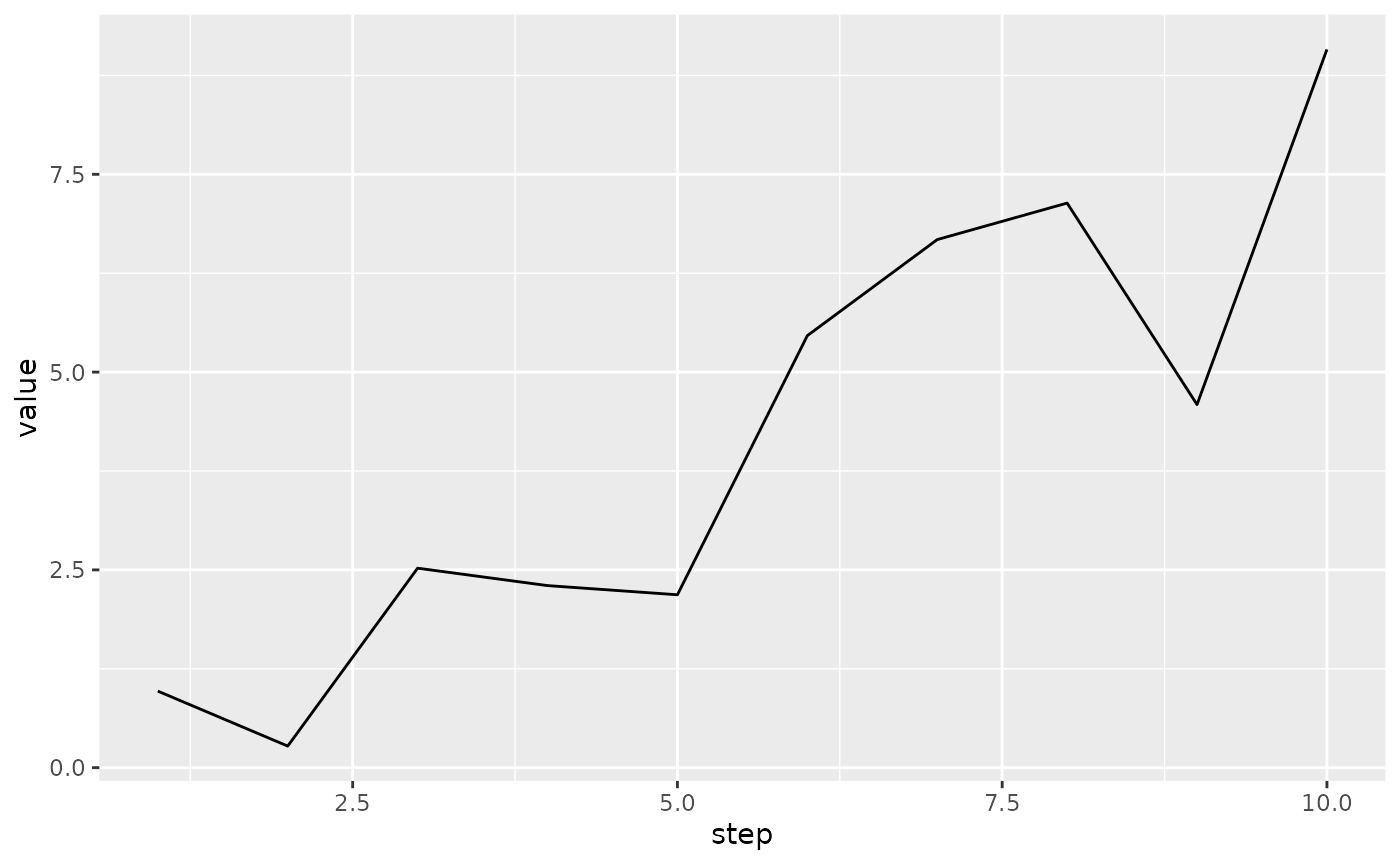
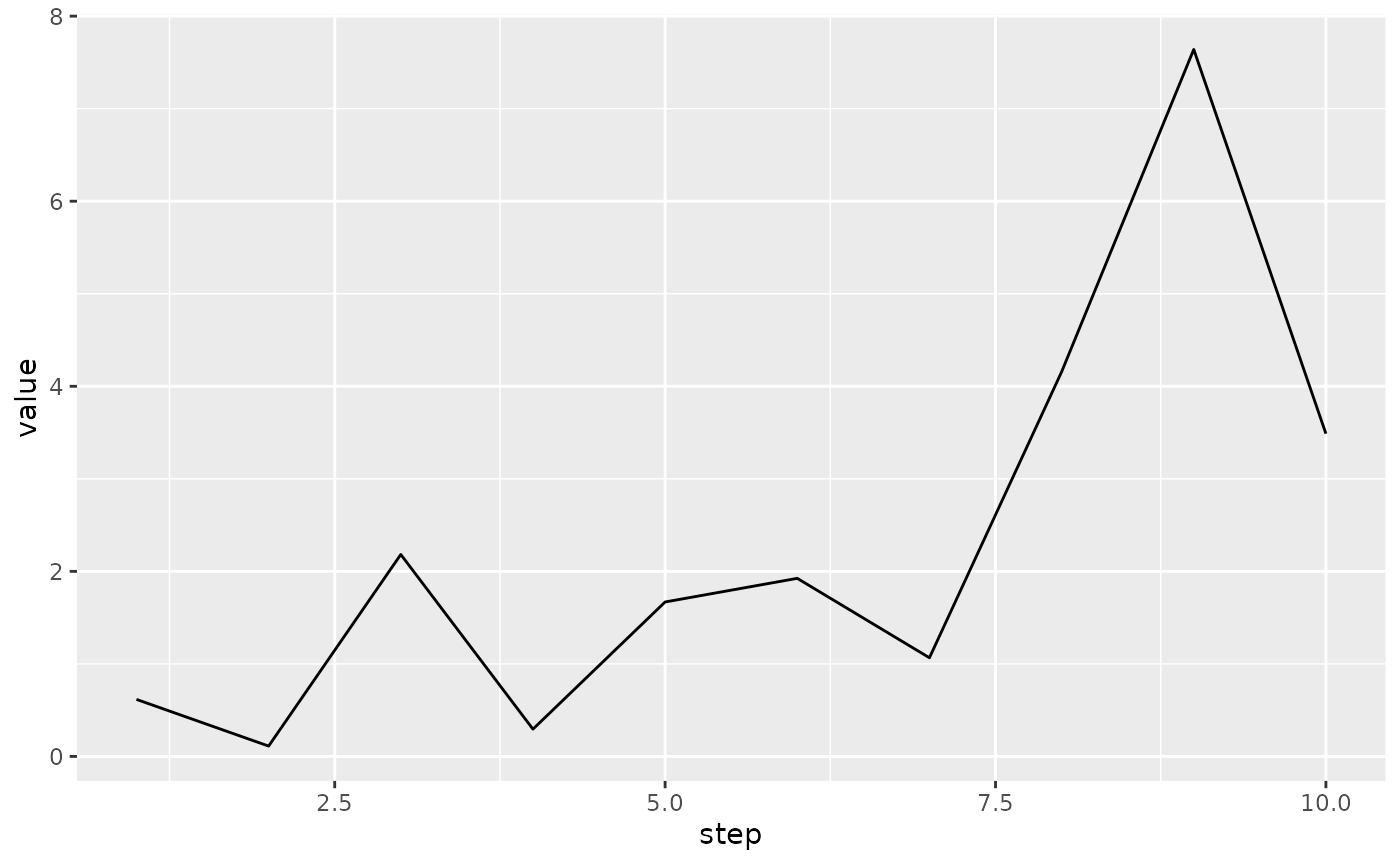
Deploying to gh-pages from @ mlverse/tfevents@e9d2f9bcd6200724fb0143dd8e80393a2a435d81 🚀

diff --git a/articles/hparams.html b/articles/hparams.html
@@ -197,80 +197,80 @@ sets of hyperparameters.</p>
 <code>temp</code> will be filled with event files.</p>
 <div class="sourceCode" id="cb7"><pre class="downlit sourceCode r">
 <code class="sourceCode R"><span><span class="fu">fs</span><span class="fu">::</span><span class="fu"><a href="https://fs.r-lib.org/reference/dir_tree.html" class="external-link">dir_tree</a></span><span class="op">(</span><span class="va">temp</span><span class="op">)</span></span>
-<span><span class="co">#&gt; <span style="color: #0000BB; font-weight: bold;">/tmp/RtmpryvFVM/logdir1acf1a7bd8a5</span></span></span>
-<span><span class="co">#&gt; ├── <span style="color: #0000BB; font-weight: bold;">bcvrdgjgfkvuuon</span></span></span>
-<span><span class="co">#&gt; │   ├── events.out.tfevents.1677662836.v2</span></span>
+<span><span class="co">#&gt; <span style="color: #0000BB; font-weight: bold;">/tmp/Rtmpn442bn/logdir1af85866de11</span></span></span>
+<span><span class="co">#&gt; ├── events.out.tfevents.1677663946.v2</span></span>
+<span><span class="co">#&gt; ├── <span style="color: #0000BB; font-weight: bold;">fcepebyhnlqvoty</span></span></span>
+<span><span class="co">#&gt; │   ├── events.out.tfevents.1677663946.v2</span></span>
 <span><span class="co">#&gt; │   ├── <span style="color: #0000BB; font-weight: bold;">train</span></span></span>
-<span><span class="co">#&gt; │   │   └── events.out.tfevents.1677662836.v2</span></span>
+<span><span class="co">#&gt; │   │   └── events.out.tfevents.1677663946.v2</span></span>
 <span><span class="co">#&gt; │   └── <span style="color: #0000BB; font-weight: bold;">valid</span></span></span>
-<span><span class="co">#&gt; │       └── events.out.tfevents.1677662836.v2</span></span>
-<span><span class="co">#&gt; ├── events.out.tfevents.1677662834.v2</span></span>
-<span><span class="co">#&gt; ├── <span style="color: #0000BB; font-weight: bold;">fkpmcwaolztxnxc</span></span></span>
-<span><span class="co">#&gt; │   ├── events.out.tfevents.1677662836.v2</span></span>
+<span><span class="co">#&gt; │       └── events.out.tfevents.1677663946.v2</span></span>
+<span><span class="co">#&gt; ├── <span style="color: #0000BB; font-weight: bold;">idkndnxreahjifk</span></span></span>
+<span><span class="co">#&gt; │   ├── events.out.tfevents.1677663948.v2</span></span>
 <span><span class="co">#&gt; │   ├── <span style="color: #0000BB; font-weight: bold;">train</span></span></span>
-<span><span class="co">#&gt; │   │   └── events.out.tfevents.1677662836.v2</span></span>
+<span><span class="co">#&gt; │   │   └── events.out.tfevents.1677663948.v2</span></span>
 <span><span class="co">#&gt; │   └── <span style="color: #0000BB; font-weight: bold;">valid</span></span></span>
-<span><span class="co">#&gt; │       └── events.out.tfevents.1677662836.v2</span></span>
-<span><span class="co">#&gt; ├── <span style="color: #0000BB; font-weight: bold;">flqepnxhpryyqsl</span></span></span>
-<span><span class="co">#&gt; │   ├── events.out.tfevents.1677662834.v2</span></span>
+<span><span class="co">#&gt; │       └── events.out.tfevents.1677663948.v2</span></span>
+<span><span class="co">#&gt; ├── <span style="color: #0000BB; font-weight: bold;">kbhxfctzqhmdhev</span></span></span>
+<span><span class="co">#&gt; │   ├── events.out.tfevents.1677663947.v2</span></span>
 <span><span class="co">#&gt; │   ├── <span style="color: #0000BB; font-weight: bold;">train</span></span></span>
-<span><span class="co">#&gt; │   │   └── events.out.tfevents.1677662834.v2</span></span>
+<span><span class="co">#&gt; │   │   └── events.out.tfevents.1677663947.v2</span></span>
 <span><span class="co">#&gt; │   └── <span style="color: #0000BB; font-weight: bold;">valid</span></span></span>
-<span><span class="co">#&gt; │       └── events.out.tfevents.1677662834.v2</span></span>
-<span><span class="co">#&gt; ├── <span style="color: #0000BB; font-weight: bold;">nkclfidgjoerwqi</span></span></span>
-<span><span class="co">#&gt; │   ├── events.out.tfevents.1677662834.v2</span></span>
+<span><span class="co">#&gt; │       └── events.out.tfevents.1677663947.v2</span></span>
+<span><span class="co">#&gt; ├── <span style="color: #0000BB; font-weight: bold;">lsxbbtusrtdlmps</span></span></span>
+<span><span class="co">#&gt; │   ├── events.out.tfevents.1677663947.v2</span></span>
 <span><span class="co">#&gt; │   ├── <span style="color: #0000BB; font-weight: bold;">train</span></span></span>
-<span><span class="co">#&gt; │   │   └── events.out.tfevents.1677662834.v2</span></span>
+<span><span class="co">#&gt; │   │   └── events.out.tfevents.1677663947.v2</span></span>
 <span><span class="co">#&gt; │   └── <span style="color: #0000BB; font-weight: bold;">valid</span></span></span>
-<span><span class="co">#&gt; │       └── events.out.tfevents.1677662834.v2</span></span>
-<span><span class="co">#&gt; ├── <span style="color: #0000BB; font-weight: bold;">peoffgaheupxywl</span></span></span>
-<span><span class="co">#&gt; │   ├── events.out.tfevents.1677662835.v2</span></span>
+<span><span class="co">#&gt; │       └── events.out.tfevents.1677663947.v2</span></span>
+<span><span class="co">#&gt; ├── <span style="color: #0000BB; font-weight: bold;">mgilfmcrhqbultn</span></span></span>
+<span><span class="co">#&gt; │   ├── events.out.tfevents.1677663946.v2</span></span>
 <span><span class="co">#&gt; │   ├── <span style="color: #0000BB; font-weight: bold;">train</span></span></span>
-<span><span class="co">#&gt; │   │   └── events.out.tfevents.1677662835.v2</span></span>
+<span><span class="co">#&gt; │   │   └── events.out.tfevents.1677663946.v2</span></span>
 <span><span class="co">#&gt; │   └── <span style="color: #0000BB; font-weight: bold;">valid</span></span></span>
-<span><span class="co">#&gt; │       └── events.out.tfevents.1677662835.v2</span></span>
-<span><span class="co">#&gt; ├── <span style="color: #0000BB; font-weight: bold;">ramygmfuwfsfcmo</span></span></span>
-<span><span class="co">#&gt; │   ├── events.out.tfevents.1677662836.v2</span></span>
+<span><span class="co">#&gt; │       └── events.out.tfevents.1677663946.v2</span></span>
+<span><span class="co">#&gt; ├── <span style="color: #0000BB; font-weight: bold;">njjpzdqgkchdzmc</span></span></span>
+<span><span class="co">#&gt; │   ├── events.out.tfevents.1677663946.v2</span></span>
 <span><span class="co">#&gt; │   ├── <span style="color: #0000BB; font-weight: bold;">train</span></span></span>
-<span><span class="co">#&gt; │   │   └── events.out.tfevents.1677662836.v2</span></span>
+<span><span class="co">#&gt; │   │   └── events.out.tfevents.1677663946.v2</span></span>
 <span><span class="co">#&gt; │   └── <span style="color: #0000BB; font-weight: bold;">valid</span></span></span>
-<span><span class="co">#&gt; │       └── events.out.tfevents.1677662836.v2</span></span>
-<span><span class="co">#&gt; ├── <span style="color: #0000BB; font-weight: bold;">slagsviifsidngz</span></span></span>
-<span><span class="co">#&gt; │   ├── events.out.tfevents.1677662834.v2</span></span>
+<span><span class="co">#&gt; │       └── events.out.tfevents.1677663946.v2</span></span>
+<span><span class="co">#&gt; ├── <span style="color: #0000BB; font-weight: bold;">ofosgkxxhvklihu</span></span></span>
+<span><span class="co">#&gt; │   ├── events.out.tfevents.1677663947.v2</span></span>
 <span><span class="co">#&gt; │   ├── <span style="color: #0000BB; font-weight: bold;">train</span></span></span>
-<span><span class="co">#&gt; │   │   └── events.out.tfevents.1677662834.v2</span></span>
+<span><span class="co">#&gt; │   │   └── events.out.tfevents.1677663947.v2</span></span>
 <span><span class="co">#&gt; │   └── <span style="color: #0000BB; font-weight: bold;">valid</span></span></span>
-<span><span class="co">#&gt; │       └── events.out.tfevents.1677662834.v2</span></span>
-<span><span class="co">#&gt; ├── <span style="color: #0000BB; font-weight: bold;">sugjggbqpstdckq</span></span></span>
-<span><span class="co">#&gt; │   ├── events.out.tfevents.1677662835.v2</span></span>
+<span><span class="co">#&gt; │       └── events.out.tfevents.1677663947.v2</span></span>
+<span><span class="co">#&gt; ├── <span style="color: #0000BB; font-weight: bold;">oxrftuzxlnfefnk</span></span></span>
+<span><span class="co">#&gt; │   ├── events.out.tfevents.1677663948.v2</span></span>
 <span><span class="co">#&gt; │   ├── <span style="color: #0000BB; font-weight: bold;">train</span></span></span>
-<span><span class="co">#&gt; │   │   └── events.out.tfevents.1677662835.v2</span></span>
+<span><span class="co">#&gt; │   │   └── events.out.tfevents.1677663948.v2</span></span>
 <span><span class="co">#&gt; │   └── <span style="color: #0000BB; font-weight: bold;">valid</span></span></span>
-<span><span class="co">#&gt; │       └── events.out.tfevents.1677662835.v2</span></span>
-<span><span class="co">#&gt; ├── <span style="color: #0000BB; font-weight: bold;">syrmvfxplbhleqg</span></span></span>
-<span><span class="co">#&gt; │   ├── events.out.tfevents.1677662834.v2</span></span>
+<span><span class="co">#&gt; │       └── events.out.tfevents.1677663948.v2</span></span>
+<span><span class="co">#&gt; ├── <span style="color: #0000BB; font-weight: bold;">psizzxzavmtonun</span></span></span>
+<span><span class="co">#&gt; │   ├── events.out.tfevents.1677663947.v2</span></span>
 <span><span class="co">#&gt; │   ├── <span style="color: #0000BB; font-weight: bold;">train</span></span></span>
-<span><span class="co">#&gt; │   │   └── events.out.tfevents.1677662834.v2</span></span>
+<span><span class="co">#&gt; │   │   └── events.out.tfevents.1677663947.v2</span></span>
 <span><span class="co">#&gt; │   └── <span style="color: #0000BB; font-weight: bold;">valid</span></span></span>
-<span><span class="co">#&gt; │       └── events.out.tfevents.1677662834.v2</span></span>
-<span><span class="co">#&gt; ├── <span style="color: #0000BB; font-weight: bold;">tbsybarmczyjzla</span></span></span>
-<span><span class="co">#&gt; │   ├── events.out.tfevents.1677662835.v2</span></span>
+<span><span class="co">#&gt; │       └── events.out.tfevents.1677663947.v2</span></span>
+<span><span class="co">#&gt; ├── <span style="color: #0000BB; font-weight: bold;">vhmooquhebehdxr</span></span></span>
+<span><span class="co">#&gt; │   ├── events.out.tfevents.1677663947.v2</span></span>
 <span><span class="co">#&gt; │   ├── <span style="color: #0000BB; font-weight: bold;">train</span></span></span>
-<span><span class="co">#&gt; │   │   └── events.out.tfevents.1677662835.v2</span></span>
+<span><span class="co">#&gt; │   │   └── events.out.tfevents.1677663947.v2</span></span>
 <span><span class="co">#&gt; │   └── <span style="color: #0000BB; font-weight: bold;">valid</span></span></span>
-<span><span class="co">#&gt; │       └── events.out.tfevents.1677662835.v2</span></span>
-<span><span class="co">#&gt; ├── <span style="color: #0000BB; font-weight: bold;">wexjnnljyagyliv</span></span></span>
-<span><span class="co">#&gt; │   ├── events.out.tfevents.1677662835.v2</span></span>
+<span><span class="co">#&gt; │       └── events.out.tfevents.1677663947.v2</span></span>
+<span><span class="co">#&gt; ├── <span style="color: #0000BB; font-weight: bold;">ypbreeupvpknzqz</span></span></span>
+<span><span class="co">#&gt; │   ├── events.out.tfevents.1677663947.v2</span></span>
 <span><span class="co">#&gt; │   ├── <span style="color: #0000BB; font-weight: bold;">train</span></span></span>
-<span><span class="co">#&gt; │   │   └── events.out.tfevents.1677662835.v2</span></span>
+<span><span class="co">#&gt; │   │   └── events.out.tfevents.1677663947.v2</span></span>
 <span><span class="co">#&gt; │   └── <span style="color: #0000BB; font-weight: bold;">valid</span></span></span>
-<span><span class="co">#&gt; │       └── events.out.tfevents.1677662835.v2</span></span>
-<span><span class="co">#&gt; └── <span style="color: #0000BB; font-weight: bold;">xfafuhvnrrsdxtx</span></span></span>
-<span><span class="co">#&gt;     ├── events.out.tfevents.1677662835.v2</span></span>
+<span><span class="co">#&gt; │       └── events.out.tfevents.1677663947.v2</span></span>
+<span><span class="co">#&gt; └── <span style="color: #0000BB; font-weight: bold;">zntnoxyzogvwkau</span></span></span>
+<span><span class="co">#&gt;     ├── events.out.tfevents.1677663946.v2</span></span>
 <span><span class="co">#&gt;     ├── <span style="color: #0000BB; font-weight: bold;">train</span></span></span>
-<span><span class="co">#&gt;     │   └── events.out.tfevents.1677662835.v2</span></span>
+<span><span class="co">#&gt;     │   └── events.out.tfevents.1677663946.v2</span></span>
 <span><span class="co">#&gt;     └── <span style="color: #0000BB; font-weight: bold;">valid</span></span></span>
-<span><span class="co">#&gt;         └── events.out.tfevents.1677662835.v2</span></span></code></pre></div>
+<span><span class="co">#&gt;         └── events.out.tfevents.1677663946.v2</span></span></code></pre></div>
 <p>Finally, we can visualize the experiment results in TensorBoard:</p>
 <div class="sourceCode" id="cb8"><pre class="downlit sourceCode r">
 <code class="sourceCode R"><span><span class="fu">tensorflow</span><span class="fu">::</span><span class="fu"><a href="https://rdrr.io/pkg/tensorflow/man/tensorboard.html" class="external-link">tensorboard</a></span><span class="op">(</span><span class="va">temp</span>, port <span class="op">=</span> <span class="fl">6060</span><span class="op">)</span></span>

diff --git a/articles/read.html b/articles/read.html
@@ -178,34 +178,34 @@ matter the size of the summary_values vector that you pass.</p>
 <code class="sourceCode R"><span><span class="co"># we remove the first summary, as it's a text summary</span></span>
 <span><span class="fu"><a href="../reference/value.html">value</a></span><span class="op">(</span><span class="va">summaries</span><span class="op">$</span><span class="va">summary</span><span class="op">[</span><span class="op">-</span><span class="fl">1</span><span class="op">]</span>, as_list <span class="op">=</span> <span class="cn">TRUE</span><span class="op">)</span></span>
 <span><span class="co">#&gt; [[1]]</span></span>
-<span><span class="co">#&gt; [1] 0.9677632</span></span>
+<span><span class="co">#&gt; [1] 0.6161485</span></span>
 <span><span class="co">#&gt; </span></span>
 <span><span class="co">#&gt; [[2]]</span></span>
-<span><span class="co">#&gt; [1] 0.272881</span></span>
+<span><span class="co">#&gt; [1] 0.111779</span></span>
 <span><span class="co">#&gt; </span></span>
 <span><span class="co">#&gt; [[3]]</span></span>
-<span><span class="co">#&gt; [1] 2.521486</span></span>
+<span><span class="co">#&gt; [1] 2.182474</span></span>
 <span><span class="co">#&gt; </span></span>
 <span><span class="co">#&gt; [[4]]</span></span>
-<span><span class="co">#&gt; [1] 2.301351</span></span>
+<span><span class="co">#&gt; [1] 0.2947489</span></span>
 <span><span class="co">#&gt; </span></span>
 <span><span class="co">#&gt; [[5]]</span></span>
-<span><span class="co">#&gt; [1] 2.185386</span></span>
+<span><span class="co">#&gt; [1] 1.669016</span></span>
 <span><span class="co">#&gt; </span></span>
 <span><span class="co">#&gt; [[6]]</span></span>
-<span><span class="co">#&gt; [1] 5.460463</span></span>
+<span><span class="co">#&gt; [1] 1.924397</span></span>
 <span><span class="co">#&gt; </span></span>
 <span><span class="co">#&gt; [[7]]</span></span>
-<span><span class="co">#&gt; [1] 6.674839</span></span>
+<span><span class="co">#&gt; [1] 1.066157</span></span>
 <span><span class="co">#&gt; </span></span>
 <span><span class="co">#&gt; [[8]]</span></span>
-<span><span class="co">#&gt; [1] 7.136285</span></span>
+<span><span class="co">#&gt; [1] 4.155633</span></span>
 <span><span class="co">#&gt; </span></span>
 <span><span class="co">#&gt; [[9]]</span></span>
-<span><span class="co">#&gt; [1] 4.589428</span></span>
+<span><span class="co">#&gt; [1] 7.640159</span></span>
 <span><span class="co">#&gt; </span></span>
 <span><span class="co">#&gt; [[10]]</span></span>
-<span><span class="co">#&gt; [1] 9.078273</span></span></code></pre></div>
+<span><span class="co">#&gt; [1] 3.48781</span></span></code></pre></div>
 <p>If you are only interested in scalar summaries, you can use
 <code>type="scalar"</code> in <code>collect_events</code>:</p>
 <div class="sourceCode" id="cb8"><pre class="downlit sourceCode r">
@@ -214,16 +214,16 @@ matter the size of the summary_values vector that you pass.</p>
 <span><span class="co">#&gt; <span style="color: #949494;"># A tibble: 10 × 7</span></span></span>
 <span><span class="co">#&gt;         event run    step    summary tag   plugin  value</span></span>
 <span><span class="co">#&gt;    <span style="color: #949494; font-style: italic;">&lt;tfvnts_v&gt;</span> <span style="color: #949494; font-style: italic;">&lt;chr&gt;</span> <span style="color: #949494; font-style: italic;">&lt;int&gt;</span> <span style="color: #949494; font-style: italic;">&lt;tfvnts__&gt;</span> <span style="color: #949494; font-style: italic;">&lt;chr&gt;</span> <span style="color: #949494; font-style: italic;">&lt;chr&gt;</span>   <span style="color: #949494; font-style: italic;">&lt;dbl&gt;</span></span></span>
-<span><span class="co">#&gt; <span style="color: #BCBCBC;"> 1</span>     &lt;./ 1&gt; .         1    &lt;hello&gt; hello scalars 0.968</span></span>
-<span><span class="co">#&gt; <span style="color: #BCBCBC;"> 2</span>     &lt;./ 2&gt; .         2    &lt;hello&gt; hello scalars 0.273</span></span>
-<span><span class="co">#&gt; <span style="color: #BCBCBC;"> 3</span>     &lt;./ 3&gt; .         3    &lt;hello&gt; hello scalars 2.52 </span></span>
-<span><span class="co">#&gt; <span style="color: #BCBCBC;"> 4</span>     &lt;./ 4&gt; .         4    &lt;hello&gt; hello scalars 2.30 </span></span>
-<span><span class="co">#&gt; <span style="color: #BCBCBC;"> 5</span>     &lt;./ 5&gt; .         5    &lt;hello&gt; hello scalars 2.19 </span></span>
-<span><span class="co">#&gt; <span style="color: #BCBCBC;"> 6</span>     &lt;./ 6&gt; .         6    &lt;hello&gt; hello scalars 5.46 </span></span>
-<span><span class="co">#&gt; <span style="color: #BCBCBC;"> 7</span>     &lt;./ 7&gt; .         7    &lt;hello&gt; hello scalars 6.67 </span></span>
-<span><span class="co">#&gt; <span style="color: #BCBCBC;"> 8</span>     &lt;./ 8&gt; .         8    &lt;hello&gt; hello scalars 7.14 </span></span>
-<span><span class="co">#&gt; <span style="color: #BCBCBC;"> 9</span>     &lt;./ 9&gt; .         9    &lt;hello&gt; hello scalars 4.59 </span></span>
-<span><span class="co">#&gt; <span style="color: #BCBCBC;">10</span>     &lt;./10&gt; .        10    &lt;hello&gt; hello scalars 9.08</span></span></code></pre></div>
+<span><span class="co">#&gt; <span style="color: #BCBCBC;"> 1</span>     &lt;./ 1&gt; .         1    &lt;hello&gt; hello scalars 0.616</span></span>
+<span><span class="co">#&gt; <span style="color: #BCBCBC;"> 2</span>     &lt;./ 2&gt; .         2    &lt;hello&gt; hello scalars 0.112</span></span>
+<span><span class="co">#&gt; <span style="color: #BCBCBC;"> 3</span>     &lt;./ 3&gt; .         3    &lt;hello&gt; hello scalars 2.18 </span></span>
+<span><span class="co">#&gt; <span style="color: #BCBCBC;"> 4</span>     &lt;./ 4&gt; .         4    &lt;hello&gt; hello scalars 0.295</span></span>
+<span><span class="co">#&gt; <span style="color: #BCBCBC;"> 5</span>     &lt;./ 5&gt; .         5    &lt;hello&gt; hello scalars 1.67 </span></span>
+<span><span class="co">#&gt; <span style="color: #BCBCBC;"> 6</span>     &lt;./ 6&gt; .         6    &lt;hello&gt; hello scalars 1.92 </span></span>
+<span><span class="co">#&gt; <span style="color: #BCBCBC;"> 7</span>     &lt;./ 7&gt; .         7    &lt;hello&gt; hello scalars 1.07 </span></span>
+<span><span class="co">#&gt; <span style="color: #BCBCBC;"> 8</span>     &lt;./ 8&gt; .         8    &lt;hello&gt; hello scalars 4.16 </span></span>
+<span><span class="co">#&gt; <span style="color: #BCBCBC;"> 9</span>     &lt;./ 9&gt; .         9    &lt;hello&gt; hello scalars 7.64 </span></span>
+<span><span class="co">#&gt; <span style="color: #BCBCBC;">10</span>     &lt;./10&gt; .        10    &lt;hello&gt; hello scalars 3.49</span></span></code></pre></div>
 <p>Now, values can be expanded in the data frame and you get a ready to
 use data frame, for example:</p>
 <div class="sourceCode" id="cb9"><pre class="downlit sourceCode r">
@@ -246,7 +246,7 @@ load events in smaller batches.</p>
 <span><span class="co">#&gt; <span style="color: #949494;"># A tibble: 1 × 7</span></span></span>
 <span><span class="co">#&gt;        event run    step    summary tag   plugin  value</span></span>
 <span><span class="co">#&gt;   <span style="color: #949494; font-style: italic;">&lt;tfvnts_v&gt;</span> <span style="color: #949494; font-style: italic;">&lt;chr&gt;</span> <span style="color: #949494; font-style: italic;">&lt;int&gt;</span> <span style="color: #949494; font-style: italic;">&lt;tfvnts__&gt;</span> <span style="color: #949494; font-style: italic;">&lt;chr&gt;</span> <span style="color: #949494; font-style: italic;">&lt;chr&gt;</span>   <span style="color: #949494; font-style: italic;">&lt;dbl&gt;</span></span></span>
-<span><span class="co">#&gt; <span style="color: #BCBCBC;">1</span>      &lt;./1&gt; .         1    &lt;hello&gt; hello scalars 0.968</span></span></code></pre></div>
+<span><span class="co">#&gt; <span style="color: #BCBCBC;">1</span>      &lt;./1&gt; .         1    &lt;hello&gt; hello scalars 0.616</span></span></code></pre></div>
 <p>Notice that the first call to <code>collect_events</code> collected
 the first scalar summary event in the directory because of
 <code>n = 1</code>. The next call will collect the remaining ones as by
@@ -256,15 +256,15 @@ default <code>n = NULL</code>.</p>
 <span><span class="co">#&gt; <span style="color: #949494;"># A tibble: 9 × 7</span></span></span>
 <span><span class="co">#&gt;        event run    step    summary tag   plugin  value</span></span>
 <span><span class="co">#&gt;   <span style="color: #949494; font-style: italic;">&lt;tfvnts_v&gt;</span> <span style="color: #949494; font-style: italic;">&lt;chr&gt;</span> <span style="color: #949494; font-style: italic;">&lt;int&gt;</span> <span style="color: #949494; font-style: italic;">&lt;tfvnts__&gt;</span> <span style="color: #949494; font-style: italic;">&lt;chr&gt;</span> <span style="color: #949494; font-style: italic;">&lt;chr&gt;</span>   <span style="color: #949494; font-style: italic;">&lt;dbl&gt;</span></span></span>
-<span><span class="co">#&gt; <span style="color: #BCBCBC;">1</span>     &lt;./ 2&gt; .         2    &lt;hello&gt; hello scalars 0.273</span></span>
-<span><span class="co">#&gt; <span style="color: #BCBCBC;">2</span>     &lt;./ 3&gt; .         3    &lt;hello&gt; hello scalars 2.52 </span></span>
-<span><span class="co">#&gt; <span style="color: #BCBCBC;">3</span>     &lt;./ 4&gt; .         4    &lt;hello&gt; hello scalars 2.30 </span></span>
-<span><span class="co">#&gt; <span style="color: #BCBCBC;">4</span>     &lt;./ 5&gt; .         5    &lt;hello&gt; hello scalars 2.19 </span></span>
-<span><span class="co">#&gt; <span style="color: #BCBCBC;">5</span>     &lt;./ 6&gt; .         6    &lt;hello&gt; hello scalars 5.46 </span></span>
-<span><span class="co">#&gt; <span style="color: #BCBCBC;">6</span>     &lt;./ 7&gt; .         7    &lt;hello&gt; hello scalars 6.67 </span></span>
-<span><span class="co">#&gt; <span style="color: #BCBCBC;">7</span>     &lt;./ 8&gt; .         8    &lt;hello&gt; hello scalars 7.14 </span></span>
-<span><span class="co">#&gt; <span style="color: #BCBCBC;">8</span>     &lt;./ 9&gt; .         9    &lt;hello&gt; hello scalars 4.59 </span></span>
-<span><span class="co">#&gt; <span style="color: #BCBCBC;">9</span>     &lt;./10&gt; .        10    &lt;hello&gt; hello scalars 9.08</span></span></code></pre></div>
+<span><span class="co">#&gt; <span style="color: #BCBCBC;">1</span>     &lt;./ 2&gt; .         2    &lt;hello&gt; hello scalars 0.112</span></span>
+<span><span class="co">#&gt; <span style="color: #BCBCBC;">2</span>     &lt;./ 3&gt; .         3    &lt;hello&gt; hello scalars 2.18 </span></span>
+<span><span class="co">#&gt; <span style="color: #BCBCBC;">3</span>     &lt;./ 4&gt; .         4    &lt;hello&gt; hello scalars 0.295</span></span>
+<span><span class="co">#&gt; <span style="color: #BCBCBC;">4</span>     &lt;./ 5&gt; .         5    &lt;hello&gt; hello scalars 1.67 </span></span>
+<span><span class="co">#&gt; <span style="color: #BCBCBC;">5</span>     &lt;./ 6&gt; .         6    &lt;hello&gt; hello scalars 1.92 </span></span>
+<span><span class="co">#&gt; <span style="color: #BCBCBC;">6</span>     &lt;./ 7&gt; .         7    &lt;hello&gt; hello scalars 1.07 </span></span>
+<span><span class="co">#&gt; <span style="color: #BCBCBC;">7</span>     &lt;./ 8&gt; .         8    &lt;hello&gt; hello scalars 4.16 </span></span>
+<span><span class="co">#&gt; <span style="color: #BCBCBC;">8</span>     &lt;./ 9&gt; .         9    &lt;hello&gt; hello scalars 7.64 </span></span>
+<span><span class="co">#&gt; <span style="color: #BCBCBC;">9</span>     &lt;./10&gt; .        10    &lt;hello&gt; hello scalars 3.49</span></span></code></pre></div>
 <p>We can now log some more scalars and recollect, you will see that the
 events that were just written are now collected.</p>
 <div class="sourceCode" id="cb12"><pre class="downlit sourceCode r">
@@ -275,9 +275,9 @@ events that were just written are now collected.</p>
 <span><span class="co">#&gt; <span style="color: #949494;"># A tibble: 3 × 7</span></span></span>
 <span><span class="co">#&gt;        event run    step    summary tag   plugin  value</span></span>
 <span><span class="co">#&gt;   <span style="color: #949494; font-style: italic;">&lt;tfvnts_v&gt;</span> <span style="color: #949494; font-style: italic;">&lt;chr&gt;</span> <span style="color: #949494; font-style: italic;">&lt;int&gt;</span> <span style="color: #949494; font-style: italic;">&lt;tfvnts__&gt;</span> <span style="color: #949494; font-style: italic;">&lt;chr&gt;</span> <span style="color: #949494; font-style: italic;">&lt;chr&gt;</span>   <span style="color: #949494; font-style: italic;">&lt;dbl&gt;</span></span></span>
-<span><span class="co">#&gt; <span style="color: #BCBCBC;">1</span>     &lt;./11&gt; .        11    &lt;hello&gt; hello scalars 0.392</span></span>
-<span><span class="co">#&gt; <span style="color: #BCBCBC;">2</span>     &lt;./12&gt; .        12    &lt;hello&gt; hello scalars 1.31 </span></span>
-<span><span class="co">#&gt; <span style="color: #BCBCBC;">3</span>     &lt;./13&gt; .        13    &lt;hello&gt; hello scalars 1.71</span></span></code></pre></div>
+<span><span class="co">#&gt; <span style="color: #BCBCBC;">1</span>     &lt;./11&gt; .        11    &lt;hello&gt; hello scalars 0.245</span></span>
+<span><span class="co">#&gt; <span style="color: #BCBCBC;">2</span>     &lt;./12&gt; .        12    &lt;hello&gt; hello scalars 0.216</span></span>
+<span><span class="co">#&gt; <span style="color: #BCBCBC;">3</span>     &lt;./13&gt; .        13    &lt;hello&gt; hello scalars 1.84</span></span></code></pre></div>
 <p>This interface allows you to efficiently read tfevents records
 without having them all on RAM at once, or work in a streaming way in a
 sense that a process might be writing tfevents (for example in a

diff --git a/reference/collect_events.html b/reference/collect_events.html
@@ -135,13 +135,13 @@ to read further events later.</p></li>
 <span class="r-in"><span><span class="co"># collect only scalar events</span></span></span>
 <span class="r-in"><span><span class="fu">collect_events</span><span class="op">(</span><span class="va">temp</span>, type <span class="op">=</span> <span class="st">"scalar"</span><span class="op">)</span></span></span>
 <span class="r-out co"><span class="r-pr">#&gt;</span> <span style="color: #949494;"># A tibble: 5 × 7</span></span>
-<span class="r-out co"><span class="r-pr">#&gt;</span>        event run    step    summary tag    plugin    value</span>
-<span class="r-out co"><span class="r-pr">#&gt;</span>   <span style="color: #949494; font-style: italic;">&lt;tfvnts_v&gt;</span> <span style="color: #949494; font-style: italic;">&lt;chr&gt;</span> <span style="color: #949494; font-style: italic;">&lt;int&gt;</span> <span style="color: #949494; font-style: italic;">&lt;tfvnts__&gt;</span> <span style="color: #949494; font-style: italic;">&lt;chr&gt;</span>  <span style="color: #949494; font-style: italic;">&lt;chr&gt;</span>     <span style="color: #949494; font-style: italic;">&lt;dbl&gt;</span></span>
-<span class="r-out co"><span class="r-pr">#&gt;</span> <span style="color: #BCBCBC;">1</span>      &lt;./0&gt; .         0   &lt;my_log&gt; my_log scalars 0.637  </span>
-<span class="r-out co"><span class="r-pr">#&gt;</span> <span style="color: #BCBCBC;">2</span>      &lt;./1&gt; .         1   &lt;my_log&gt; my_log scalars 0.606  </span>
-<span class="r-out co"><span class="r-pr">#&gt;</span> <span style="color: #BCBCBC;">3</span>      &lt;./2&gt; .         2   &lt;my_log&gt; my_log scalars 0.975  </span>
-<span class="r-out co"><span class="r-pr">#&gt;</span> <span style="color: #BCBCBC;">4</span>      &lt;./3&gt; .         3   &lt;my_log&gt; my_log scalars 0.907  </span>
-<span class="r-out co"><span class="r-pr">#&gt;</span> <span style="color: #BCBCBC;">5</span>      &lt;./4&gt; .         4   &lt;my_log&gt; my_log scalars 0.005<span style="text-decoration: underline;">86</span></span>
+<span class="r-out co"><span class="r-pr">#&gt;</span>        event run    step    summary tag    plugin  value</span>
+<span class="r-out co"><span class="r-pr">#&gt;</span>   <span style="color: #949494; font-style: italic;">&lt;tfvnts_v&gt;</span> <span style="color: #949494; font-style: italic;">&lt;chr&gt;</span> <span style="color: #949494; font-style: italic;">&lt;int&gt;</span> <span style="color: #949494; font-style: italic;">&lt;tfvnts__&gt;</span> <span style="color: #949494; font-style: italic;">&lt;chr&gt;</span>  <span style="color: #949494; font-style: italic;">&lt;chr&gt;</span>   <span style="color: #949494; font-style: italic;">&lt;dbl&gt;</span></span>
+<span class="r-out co"><span class="r-pr">#&gt;</span> <span style="color: #BCBCBC;">1</span>      &lt;./0&gt; .         0   &lt;my_log&gt; my_log scalars 0.933</span>
+<span class="r-out co"><span class="r-pr">#&gt;</span> <span style="color: #BCBCBC;">2</span>      &lt;./1&gt; .         1   &lt;my_log&gt; my_log scalars 0.153</span>
+<span class="r-out co"><span class="r-pr">#&gt;</span> <span style="color: #BCBCBC;">3</span>      &lt;./2&gt; .         2   &lt;my_log&gt; my_log scalars 0.812</span>
+<span class="r-out co"><span class="r-pr">#&gt;</span> <span style="color: #BCBCBC;">4</span>      &lt;./3&gt; .         3   &lt;my_log&gt; my_log scalars 0.734</span>
+<span class="r-out co"><span class="r-pr">#&gt;</span> <span style="color: #BCBCBC;">5</span>      &lt;./4&gt; .         4   &lt;my_log&gt; my_log scalars 0.484</span>
 <span class="r-in"><span></span></span>
 </code></pre></div>
     </div>

diff --git a/reference/get_default_logdir.html b/reference/get_default_logdir.html
@@ -115,7 +115,7 @@ at every call. These functions allow you to query and the current logdir.</p>
 <span class="r-in"><span><span class="fu">with_logdir</span><span class="op">(</span><span class="va">temp</span>, <span class="op">{</span></span></span>
 <span class="r-in"><span> <span class="fu"><a href="https://rdrr.io/r/base/print.html" class="external-link">print</a></span><span class="op">(</span><span class="fu">get_default_logdir</span><span class="op">(</span><span class="op">)</span><span class="op">)</span></span></span>
 <span class="r-in"><span><span class="op">}</span><span class="op">)</span></span></span>
-<span class="r-out co"><span class="r-pr">#&gt;</span> [1] "/tmp/RtmppdFeIw/file192e7f30e04e"</span>
+<span class="r-out co"><span class="r-pr">#&gt;</span> [1] "/tmp/RtmpJnlYye/file195860f97a85"</span>
 </code></pre></div>
     </div>
   </main><aside class="col-md-3"><nav id="toc"><h2>On this page</h2>

diff --git a/reference/value.html b/reference/value.html
@@ -119,7 +119,7 @@ scalar.</p>
 <span class="r-in"><span><span class="co"># iterate over all events</span></span></span>
 <span class="r-in"><span><span class="va">summary</span> <span class="op">&lt;-</span> <span class="fu"><a href="collect_events.html">collect_events</a></span><span class="op">(</span><span class="va">temp</span>, n <span class="op">=</span> <span class="fl">1</span>, type <span class="op">=</span> <span class="st">"summary"</span><span class="op">)</span></span></span>
 <span class="r-in"><span><span class="fu">value</span><span class="op">(</span><span class="va">summary</span><span class="op">$</span><span class="va">summary</span><span class="op">)</span></span></span>
-<span class="r-out co"><span class="r-pr">#&gt;</span> [1] 0.3477955</span>
+<span class="r-out co"><span class="r-pr">#&gt;</span> [1] 0.7667826</span>
 <span class="r-in"><span></span></span>
 </code></pre></div>
     </div>
